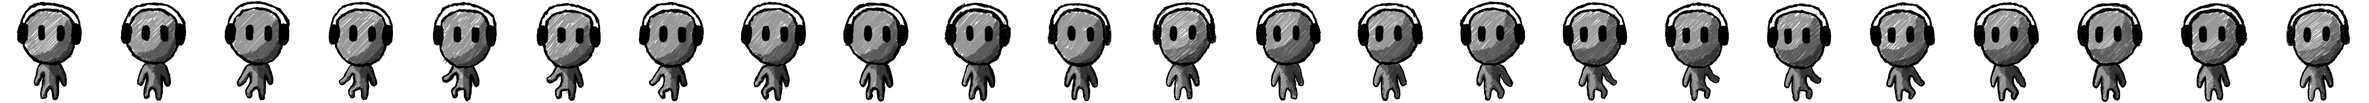
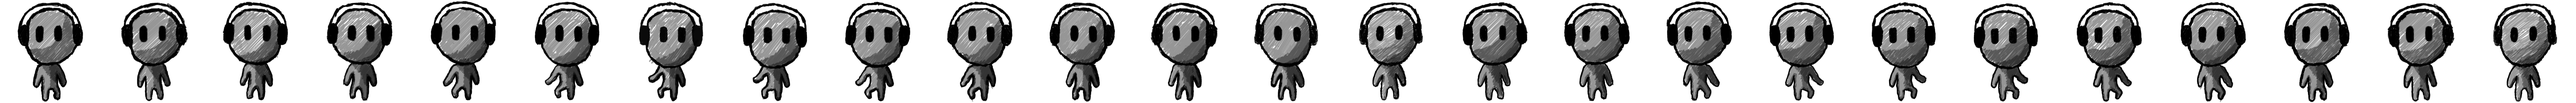
user animation

diff --git a/src/game/User.ts b/src/game/User.ts
@@ -7,15 +7,15 @@ export class User {
   y: number;
 
   currentFrame = 0;
-  framesCount = 22;
+  framesCount = 24;
   frameSize = 256;
-  frameDelay = 100;
+  frameDelay = 80;
   timeSinceLastFrame = 0;
 
   constructor(position: Cell) {
     this.position = position;
-    this.x = position.x * Cell.cellSize;
-    this.y = position.y * Cell.cellSize;
+    this.x = position.x;
+    this.y = position.y;
   }
 
   render = (canvas: CanvasRenderingContext2D, delta: number) => {
@@ -35,20 +35,12 @@ export class User {
         0,
         this.frameSize,
         this.frameSize,
-        this.x,
-        this.y,
+        this.x * Cell.cellSize,
+        this.y * Cell.cellSize,
         Cell.cellSize,
         Cell.cellSize
       );
     }
   };
 }
-// GameImagesService.collection.userDance,
-// this.currentFrame * this.frameSize,
-// 0,
-// this.frameSize,
-// this.frameSize,
-// this.x,
-// this.y,
-// Cell.cellSize,
-// Cell.cellSize
+

diff --git a/src/game/Game.ts b/src/game/Game.ts
@@ -131,14 +131,14 @@ export class Game {
             gameObj.user.y = yTo;
             return;
           }
-          gameObj.user.x -= xVec * speed * delta;
-          gameObj.user.y -= yVec * speed * delta;
+          gameObj.user.x -= xVec * speed * delta * Cell.cellSize;
+          gameObj.user.y -= yVec * speed * delta * Cell.cellSize;
         },
         xVec,
         yVec,
-        xTo: newPosition.x * Cell.cellSize,
-        yTo: newPosition.y * Cell.cellSize,
-        speed: 0.2,
+        xTo: newPosition.x,
+        yTo: newPosition.y,
+        speed: 0.00001,
         gameObj: this,
       });
       this.snakes.forEach(checkGameObject);

diff --git a/src/utils.ts b/src/utils.ts
@@ -11,7 +11,7 @@ export const useWindowResize = (callback: () => unknown) => {
   }, []);
 };
 
-const matchDistance = 4;
+const matchDistance = 0.1;
 
 export const checkPointsMatch = ({
   x1,
